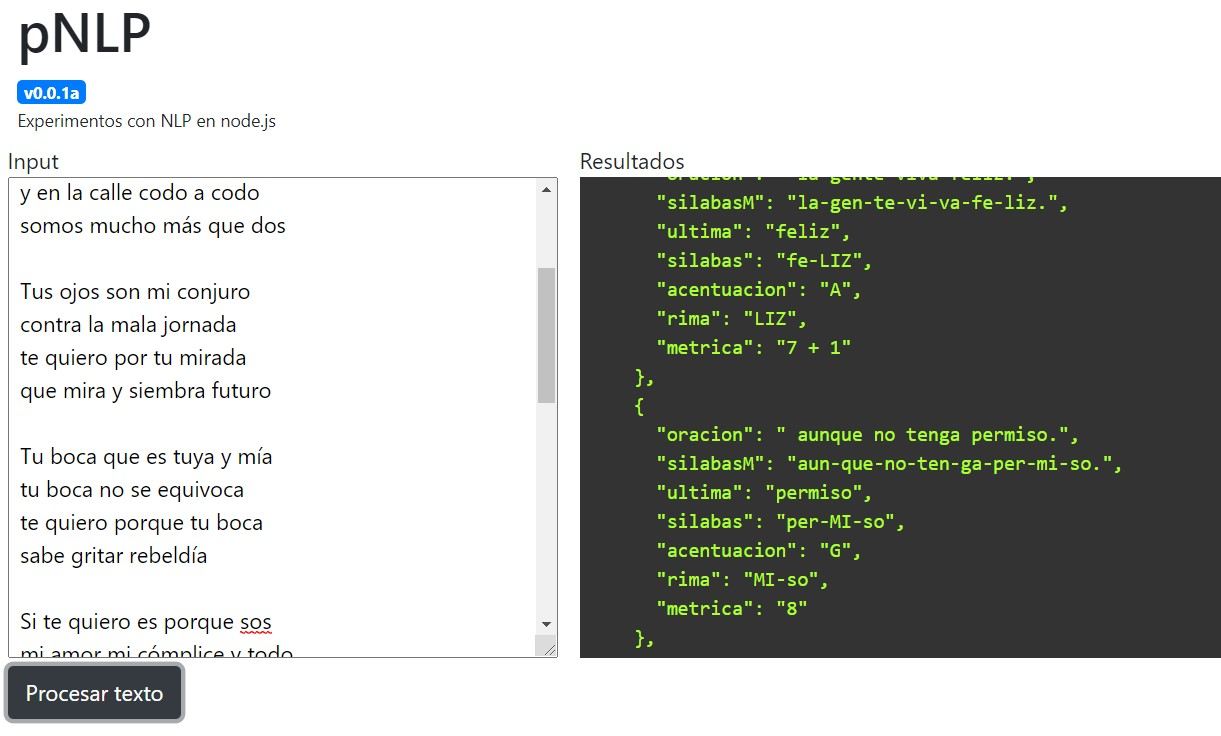
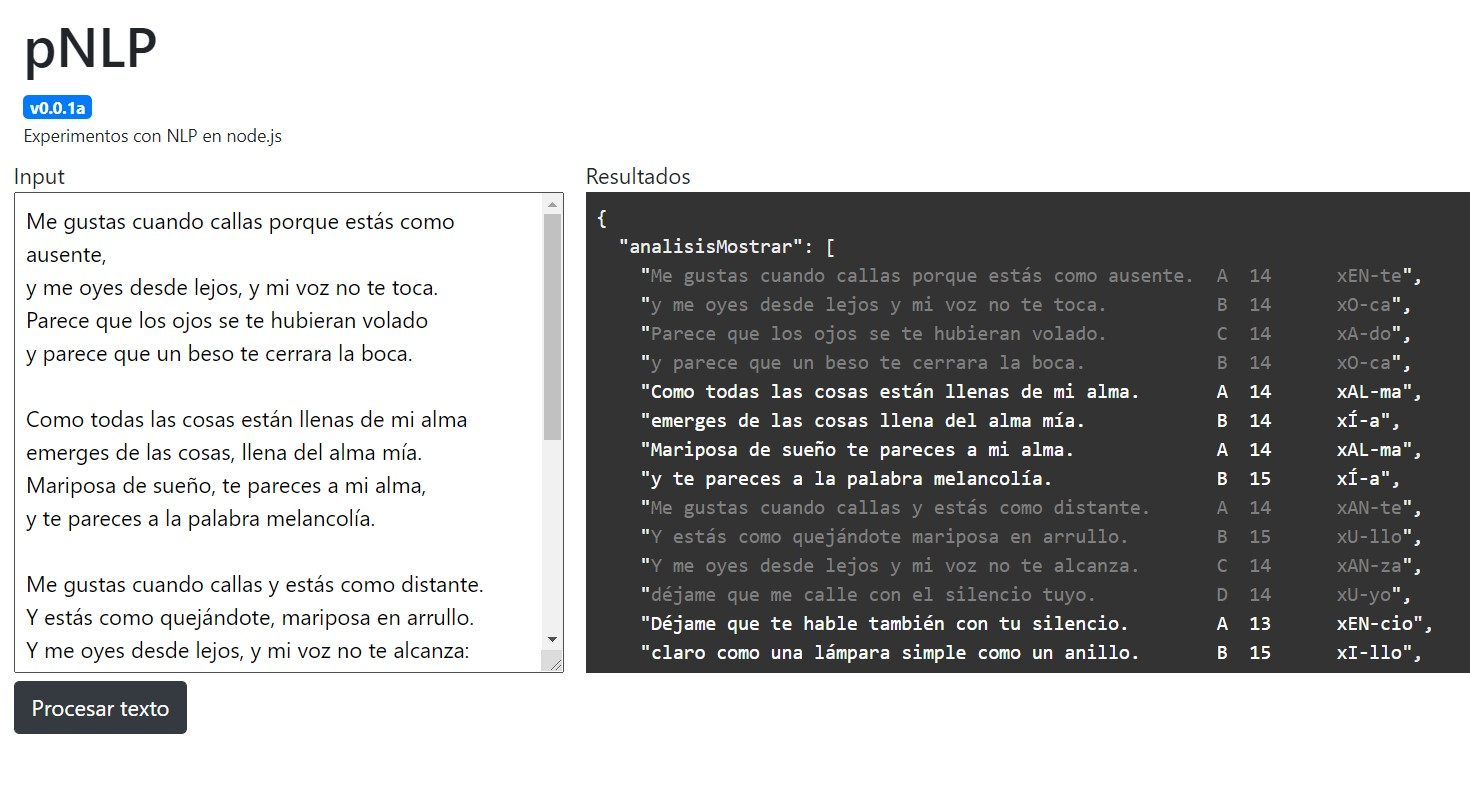
Se incorporó el tipo de rima Consonante y Asonante con un criterio básico

Changed region(s): [[0.3423, 0.1875, 1.0, 0.9062], [0.0, 0.0, 0.3423, 1.0]]

diff --git a/modules/my-nlp.js b/modules/my-nlp.js
@@ -22,7 +22,7 @@ module.exports = async (req, res, next) => {
       ;
 
    let arrOraciones = oraciones.get();
-   let analisis = [0];
+   let analisis = [];
 
    const waitFor = (ms) => new Promise(r => setTimeout(r, ms))
    const asyncForEach = async (array, callback) => {
@@ -46,22 +46,45 @@ module.exports = async (req, res, next) => {
             silabasM: pnlp.silabasParaMetrica(oracion).join('-'),
             ultima,
             silabas: BP_silabas.silabas,
+            metrica: metrica +
+               `${(BP_silabas.masInfo.ega == 'A' ? ' + 1' : '')}` +
+               `${('ES'.includes(BP_silabas.masInfo.ega) ? ' - 1' : '')}`,
             acentuacion: BP_silabas.masInfo.ega,
             rima: BP_silabas.masInfo.rima,
-            metrica: metrica
-               + `${(BP_silabas.masInfo.ega == 'A' ? ' + 1' : '')}`
-               + `${('ES'.includes(BP_silabas.masInfo.ega) ? ' - 1' : '')}`
+            rimaC: BP_silabas.masInfo.rimaC,
+            rimaA: BP_silabas.masInfo.rimaA,
+            // tipoR: '?',
+            tipoRC: '?',
+            tipoRA: '?'
          });
       });
-      console.log('Done');
    };
 
    await start();
 
    console.log({ analisis });
 
+   //let analisisR1 = pnlp.analisisRimas(analisis, 'rima', 'tipoR');
+   let analisisR2 = pnlp.analisisRimas(analisis, 'rimaC', 'tipoRC', 4);
+   let analisisR3 = pnlp.analisisRimas(analisisR2, 'rimaA', 'tipoRA', 4);
+
+   let swC = true;
+   let analisisMostrar = analisisR3.map((linea, i) => {
+      swC = (i % 4 === 0) ? !swC : swC;
+      let color = swC ? 'white' : 'grey';
+      return `<span style='color:${color}'>` + (
+         [
+            linea.oracion.trim().padEnd(50, ' '),
+            linea.tipoRC,
+            linea.metrica.trim().padEnd(6, ' '),
+            linea.rimaC
+         ].join('  ')
+      )
+         + '</span>';
+   });
+
    res.json({
-      analisis
+      analisisMostrar
    });
 
 };

diff --git a/libs/plugins/buscapalabras.js b/libs/plugins/buscapalabras.js
@@ -48,12 +48,20 @@ let buscapalabras = {
                .reverse()
          )
             .map((silaba, i) => silaba === silaba.toUpperCase())
-            .indexOf(true)]
+            .indexOf(true)];
+
+      let rima = silabas.slice(silabas.indexOf(silabas
+         .split('-')
+         .reverse()['AGESSSSSSSSSSSS'.indexOf(ega)]), 1000);
+
+      let rimaC = rima
+         .replace(/^(\w*)?([aeiouáéíóú])(.*)/ig, 'x$2$3');
+
       let masInfo = {
          ega,
-         rima: silabas.slice(silabas.indexOf(silabas
-            .split('-')
-            .reverse()['AGESSSSSSSSSSSS'.indexOf(ega)]), 1000)
+         rima,
+         rimaC,
+         rimaA: rimaC.replace(/[^aeiouáéíóú-]/ig, 'x')
       };
 
       return {

diff --git a/libs/plugins/pnlp.js b/libs/plugins/pnlp.js
@@ -54,6 +54,23 @@ let pnlp = {
       let newSilabas = this.silabasParaMetrica(oracion);
       metrica = newSilabas.length;
       return metrica;
+   },
+
+   analisisRimas: function (analisis, rimaF, rimaD, n) {
+      let rimasAux = {};
+      let letra = 'A';
+      let rimas = analisis.map((oracion, i) => {
+         if (i % n === 0) letra = 'A';
+         if (!rimasAux.hasOwnProperty(oracion[rimaF])) {
+            rimasAux[oracion[rimaF]] = letra;
+            letra = String.fromCharCode(letra.charCodeAt() + 1);
+         }
+         return {
+            ...oracion,
+            [rimaD]: rimasAux[oracion[rimaF]]
+         };
+      });
+      return rimas;
    }
 
 

diff --git a/static/style.css b/static/style.css
@@ -22,7 +22,7 @@ body {
 }
 
 .output {
-   color: greenyellow;
+   color: #eee;
    background-color: #333;
    width: 800px;
    height: 350px;
